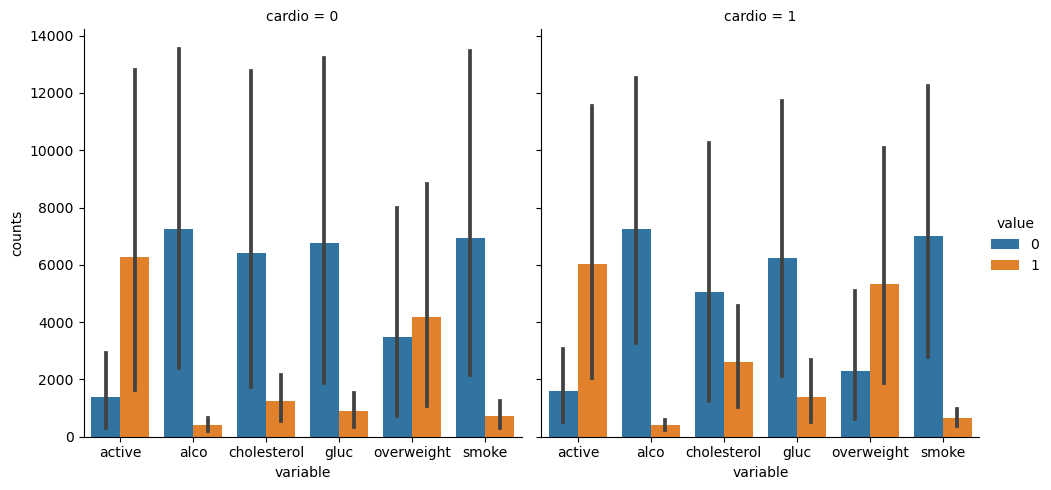
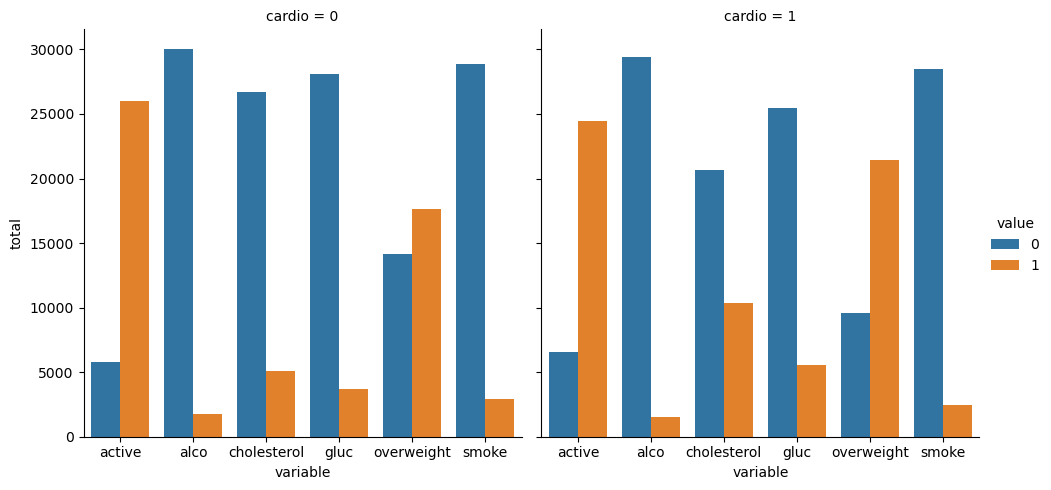
completed bar chart

diff --git a/medical_data_visualizer.py b/medical_data_visualizer.py
@@ -12,28 +12,32 @@ df['overweight'] = np.where(df['weight'].values/(df['height'].values/100)**2 > 2
 # 3 normalized data by changing cholestorol & gluc values to 1 (bad) if current value is > 1 else 0 (good)
 df[['cholesterol', 'gluc']] = np.where(df[['cholesterol', 'gluc']].values > 1, 1, 0)
 
+#cleaning data by filtering out incorrect data
+df = df[df['ap_lo'] <= df['ap_hi']]
+df = df[df['height'] >= df['height'].quantile(0.025)]
+df = df[df['height'] <= df['height'].quantile(0.975)]
+df = df[df['weight'] >= df['weight'].quantile(0.025)]
+df = df[df['weight'] <= df['weight'].quantile(0.975)]
+
 # 4
 def draw_cat_plot():
-    # 5 created new dataframe for cat plot
-    df_cat = pd.melt(df, id_vars=['active', 'alco', 'cholesterol', 'gluc', 'overweight', 'smoke', 'cardio'])
+    # 5 created new dataframe for cat plot in long format
+    df_cat = pd.melt(df, id_vars=['cardio'], value_vars=['active', 'alco', 'cholesterol', 'gluc', 'overweight', 'smoke'])
 
 
     # 6 grouped and reformatted data and calculated counts
-    df_cat = df_cat.groupby(['cardio', 'active', 'alco', 'cholesterol', 'gluc', 'overweight', 'smoke' ]).size().reset_index(name='counts')
+    df_cat = df_cat.groupby(['variable','cardio','value'])['variable'].count().reset_index(name='total')
     
+    # 7 prouced chart using seaborn catplot method
+    chart = sns.catplot(x='variable', y='total', hue='value', kind='bar', col='cardio', data=df_cat, errorbar=None)
 
-    # 7 converted data into long format and prouced chart using seaborn catplot method
-    df_cat = pd.melt(df_cat, id_vars=['cardio', 'counts'], value_vars=['active', 'alco', 'cholesterol', 'gluc', 'overweight', 'smoke'])
-    chart = sns.catplot(x='variable', y='counts', hue='value', kind='bar', col='cardio', data=df_cat)
-
-    # 8  Stored output in fig variable
+    #8  Stored output in fig variable
     
     fig = chart
 
 
     # 9
     fig.savefig('catplot.png')
-    print(df_cat)
     return df
 
 
